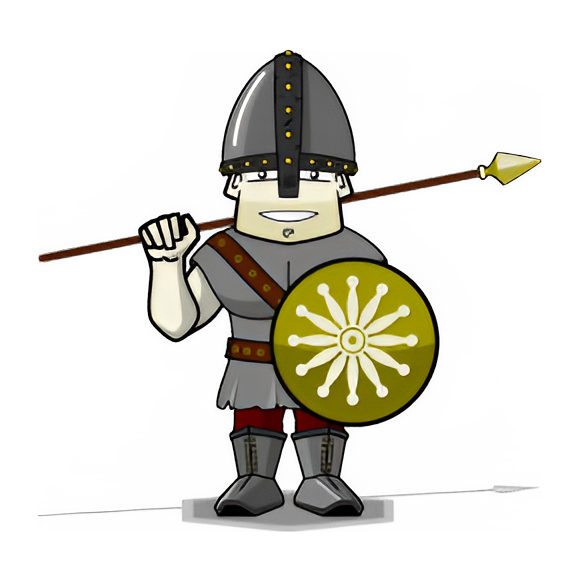
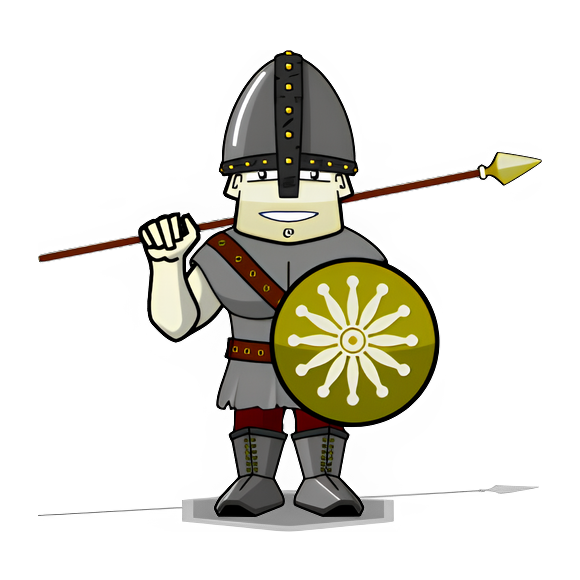
bug: keep the interrupt raised while advancing the loop (#46)
* bug: keep the interrupt raised while advancing the loop

- The helpers of the loop discarded every pending exception, which
  included the keyboard interrupt raised inside the running of it,
  so the serving loop never noticed the signal and never stopped
- Saves the exception of the signal while the shutdown of the
  lifespan runs, the interpreter refuses most calls with one
  pending and the shutdown would otherwise hang the ending

* bug: keep the exception of the signal across the closing

- The closing of the service reaches the interpreter through the
  destruction of the contexts of the connections, which cleared
  the restored exception and left the serving returning without
  one, so the interrupt surfaced as a system error instead
- Keeps a request in flight in the test of the interrupt, so that
  the signal reaches the loop while it is advancing the
  interpreter, the window the previous commit addresses

* test: raise the interrupt through the portable helper

- The kill of a signal other than the control events terminates
  the process on windows, which was ending the run of the suite
  there rather than exercising the interrupt

* chore: improve high-resolution web assets

- Restore legacy artwork with asset-specific upscaling
- Preserve small UI glyphs with pixel-aware 2x scaling
- Keep source-resolution assets unchanged

diff --git a/src/viriatum_python/module/loop.c b/src/viriatum_python/module/loop.c
@@ -78,7 +78,7 @@ ERROR_CODE delete_loop_python(struct loop_python_t *loop_python) {
     of them is ever going to be advanced once the loop is closed */
     if(loop_python->loop != NULL) {
         tasks = PyObject_CallMethod(loop_python->module, "all_tasks", "O", loop_python->loop);
-        if(tasks == NULL) { PyErr_Clear(); }
+        if(tasks == NULL) { _clear_loop_python(); }
         else {
             /* the set of tasks is not a sequence and so it must be
             converted into one before being iterated, both references
@@ -91,7 +91,7 @@ ERROR_CODE delete_loop_python(struct loop_python_t *loop_python) {
             }
             Py_XDECREF(sequence);
             Py_DECREF(tasks);
-            PyErr_Clear();
+            _clear_loop_python();
         }
 
         /* advances the loop until every cancelled task is done, a task
@@ -102,7 +102,7 @@ ERROR_CODE delete_loop_python(struct loop_python_t *loop_python) {
             run_once_loop_python(loop_python);
         }
         Py_XDECREF(PyObject_CallMethod(loop_python->loop, "close", NULL));
-        PyErr_Clear();
+        _clear_loop_python();
         Py_DECREF(loop_python->loop);
         loop_python->loop = NULL;
     }
@@ -130,7 +130,7 @@ ERROR_CODE attach_loop_python(struct loop_python_t *loop_python) {
         "O",
         loop_python->loop
     ));
-    PyErr_Clear();
+    _clear_loop_python();
 
     /* raises no error */
     RAISE_NO_ERROR;
@@ -149,7 +149,7 @@ ERROR_CODE run_slice_loop_python(struct loop_python_t *loop_python, double timeo
     in how they behave around a plain stopping callback */
     sleep = PyObject_CallMethod(loop_python->module, "sleep", "d", timeout);
     if(sleep == NULL) {
-        PyErr_Clear();
+        _clear_loop_python();
         RAISE_ERROR_M(
             RUNTIME_EXCEPTION_ERROR_CODE,
             (unsigned char *) "Problem creating the sleep coroutine"
@@ -158,7 +158,7 @@ ERROR_CODE run_slice_loop_python(struct loop_python_t *loop_python, double timeo
     result = PyObject_CallMethod(loop_python->loop, "run_until_complete", "O", sleep);
     Py_DECREF(sleep);
     if(result == NULL) {
-        PyErr_Clear();
+        _clear_loop_python();
         RAISE_ERROR_M(
             RUNTIME_EXCEPTION_ERROR_CODE,
             (unsigned char *) "Problem running the event loop"
@@ -175,10 +175,10 @@ double time_loop_python(struct loop_python_t *loop_python) {
     the timers scheduled in it are measured against */
     PyObject *result = PyObject_CallMethod(loop_python->loop, "time", NULL);
     double value;
-    if(result == NULL) { PyErr_Clear(); return 0.0; }
+    if(result == NULL) { _clear_loop_python(); return 0.0; }
     value = PyFloat_AsDouble(result);
     Py_DECREF(result);
-    if(PyErr_Occurred()) { PyErr_Clear(); return 0.0; }
+    if(PyErr_Occurred()) { _clear_loop_python(); return 0.0; }
     return value;
 }
 
@@ -192,16 +192,16 @@ ERROR_CODE run_once_loop_python(struct loop_python_t *loop_python) {
     callbacks, this is what makes the run below advance the loop by
     exactly one iteration instead of blocking on its own selector */
     stop = PyObject_GetAttrString(loop_python->loop, "stop");
-    if(stop == NULL) { PyErr_Clear(); RAISE_NO_ERROR; }
+    if(stop == NULL) { _clear_loop_python(); RAISE_NO_ERROR; }
     result = PyObject_CallMethod(loop_python->loop, "call_soon", "O", stop);
     Py_DECREF(stop);
-    if(result == NULL) { PyErr_Clear(); RAISE_NO_ERROR; }
+    if(result == NULL) { _clear_loop_python(); RAISE_NO_ERROR; }
     Py_DECREF(result);
 
     /* runs the loop until the stopping callback above is reached, no
     blocking happens as the ready queue is never empty */
     result = PyObject_CallMethod(loop_python->loop, "run_forever", NULL);
-    if(result == NULL) { PyErr_Clear(); } else { Py_DECREF(result); }
+    if(result == NULL) { _clear_loop_python(); } else { Py_DECREF(result); }
 
     /* raises no error */
     RAISE_NO_ERROR;
@@ -216,10 +216,10 @@ size_t pending_loop_python(struct loop_python_t *loop_python) {
     /* retrieves the complete set of tasks that are still pending in
     the loop, the done ones are never part of the resulting set */
     tasks = PyObject_CallMethod(loop_python->module, "all_tasks", "O", loop_python->loop);
-    if(tasks == NULL) { PyErr_Clear(); return 0; }
+    if(tasks == NULL) { _clear_loop_python(); return 0; }
     count = PyObject_Length(tasks);
     Py_DECREF(tasks);
-    if(count < 0) { PyErr_Clear(); return 0; }
+    if(count < 0) { _clear_loop_python(); return 0; }
 
     /* returns the number of tasks that are still pending */
     return (size_t) count;
@@ -248,7 +248,7 @@ ERROR_CODE resolve_future_loop_python(PyObject *future, PyObject *result) {
     the associated task has been cancelled in the meantime, nothing
     may be set on it (that would raise an invalid state error) */
     done = PyObject_CallMethod(future, "done", NULL);
-    if(done == NULL) { PyErr_Clear(); RAISE_NO_ERROR; }
+    if(done == NULL) { _clear_loop_python(); RAISE_NO_ERROR; }
     is_done = PyObject_IsTrue(done);
     Py_DECREF(done);
     if(is_done != 0) { RAISE_NO_ERROR; }
@@ -256,8 +256,24 @@ ERROR_CODE resolve_future_loop_python(PyObject *future, PyObject *result) {
     /* resolves the future with the provided result, waking up the task
     that is waiting on it on the next iteration of the loop */
     resolved = PyObject_CallMethod(future, "set_result", "O", result);
-    if(resolved == NULL) { PyErr_Clear(); } else { Py_DECREF(resolved); }
+    if(resolved == NULL) { _clear_loop_python(); } else { Py_DECREF(resolved); }
 
     /* raises no error */
     RAISE_NO_ERROR;
+}
+
+void _clear_loop_python(void) {
+    /* in case the pending exception is a keyboard interrupt it is re
+    armed instead of being discarded, the serving loop verifies the
+    signals right after advancing the loop and would otherwise never
+    notice the one that reached the interpreter while it was running */
+    if(PyErr_ExceptionMatches(PyExc_KeyboardInterrupt)) {
+        PyErr_Clear();
+        PyErr_SetInterrupt();
+        return;
+    }
+
+    /* discards the pending exception, the various helpers of the loop
+    report their problems through the error code they return */
+    PyErr_Clear();
 }

diff --git a/src/viriatum_python/test/test_asgi.py b/src/viriatum_python/test/test_asgi.py
@@ -7,8 +7,10 @@ import base64
 import gc
 import hashlib
 import os
+import signal
 import socket
 import struct
+import sys
 import threading
 import time
 import unittest
@@ -1094,6 +1096,68 @@ class AsgiTest(ServerCase):
             "retained %d futures across 30 dropped connections" % retained,
         )
 
+    def test_keyboard_interrupt(self):
+        # verifies that an interrupt stops the serving loop, the
+        # signals are only handled in the main thread and so it is the
+        # one that runs the loop while another raises the interrupt
+        state = {"raised": False, "expired": False}
+        finished = threading.Event()
+
+        async def application(scope, receive, send):
+            # refuses the lifespan scope so that the opening of the
+            # service is immediate, the interrupt has to reach the
+            # serving loop rather than the wait of the protocol
+            if scope["type"] != "http":
+                raise NotImplementedError(scope["type"])
+            await receive()
+            await asyncio.sleep(2.0)
+            await send({"type": "http.response.start", "status": 200, "headers": []})
+            await send({"type": "http.response.body", "body": b"plain"})
+
+        server = viriatum.Server(application, port=self.port + 30, interface="asgi")
+
+        def request():
+            # keeps a request in flight so that a task stays pending
+            # and the loop is advancing the interpreter, which is the
+            # window where the interrupt used to be discarded
+            try:
+                urllib.request.urlopen(
+                    "http://127.0.0.1:%d/" % (self.port + 30), timeout=10
+                )
+            except Exception:
+                pass
+
+        def interrupt():
+            # waits for the service to be listening before raising the
+            # interrupt, so that it never reaches the opening of it
+            for _ in range(200):
+                try:
+                    connection = socket.create_connection(
+                        ("127.0.0.1", self.port + 30), timeout=1
+                    )
+                    connection.close()
+                    break
+                except Exception:
+                    time.sleep(0.05)
+            threading.Thread(target=request, daemon=True).start()
+            time.sleep(0.5)
+            state["raised"] = True
+            signal.raise_signal(signal.SIGINT)
+
+            # stops the server in case the interrupt is ignored, so
+            # that the test fails instead of hanging forever
+            if not finished.wait(timeout=10.0):
+                state["expired"] = True
+                server.stop()
+
+        threading.Thread(target=interrupt, daemon=True).start()
+        try:
+            self.assertRaises(KeyboardInterrupt, server.serve_forever)
+        finally:
+            finished.set()
+        self.assertTrue(state["raised"])
+        self.assertFalse(state["expired"], "the interrupt was ignored")
+
     def test_serve_helper(self):
         # verifies that the helper builds a server with the provided
         # arguments and runs its loop until it is stopped
@@ -1344,6 +1408,52 @@ class LifespanTest(unittest.TestCase):
         finally:
             asyncio.sleep = original
         self.assertEqual(events, [])
+
+    def test_lifespan_shutdown_on_interrupt(self):
+        # verifies that the shutdown of the lifespan is run when the
+        # serving is ended by an interrupt, the exception raised by
+        # the signal has to be saved while it takes place
+        events = []
+        state = {"expired": False}
+        finished = threading.Event()
+
+        async def application(scope, receive, send):
+            if scope["type"] != "lifespan":
+                await self._plain(receive, send)
+                return
+            while True:
+                message = await receive()
+                events.append(message["type"])
+                if message["type"] == "lifespan.startup":
+                    await send({"type": "lifespan.startup.complete"})
+                elif message["type"] == "lifespan.shutdown":
+                    await send({"type": "lifespan.shutdown.complete"})
+                    return
+
+        server = viriatum.Server(application, port=PORT + 9, interface="asgi")
+
+        def interrupt():
+            for _ in range(200):
+                try:
+                    connection = socket.create_connection(
+                        ("127.0.0.1", PORT + 9), timeout=1
+                    )
+                    connection.close()
+                    break
+                except Exception:
+                    time.sleep(0.05)
+            signal.raise_signal(signal.SIGINT)
+            if not finished.wait(timeout=10.0):
+                state["expired"] = True
+                server.stop()
+
+        threading.Thread(target=interrupt, daemon=True).start()
+        try:
+            self.assertRaises(KeyboardInterrupt, server.serve_forever)
+        finally:
+            finished.set()
+        self.assertFalse(state["expired"], "the interrupt was ignored")
+        self.assertEqual(events, ["lifespan.startup", "lifespan.shutdown"])
 
     def test_lifespan_unsupported(self):
         # verifies that an application that refuses the lifespan

diff --git a/src/viriatum_python/test/test_server.py b/src/viriatum_python/test/test_server.py
@@ -2,6 +2,7 @@
 # -*- coding: utf-8 -*-
 
 import ast
+import signal
 import socket
 import sys
 import threading
@@ -522,6 +523,48 @@ class ServerLifecycleTest(unittest.TestCase):
         server.stop()
         thread.join(timeout=10)
         self.assertFalse(thread.is_alive())
+
+    def test_keyboard_interrupt(self):
+        # verifies that an interrupt stops the serving loop, the
+        # signals are only handled in the main thread and so it is the
+        # one that runs the loop while another raises the interrupt
+        state = {"raised": False, "expired": False}
+        finished = threading.Event()
+
+        def application(environ, start_response):
+            start_response("200 OK", [("Content-Type", "text/plain")])
+            return [b"plain"]
+
+        server = viriatum.Server(application, port=PORT + 30, interface="wsgi")
+
+        def interrupt():
+            # waits for the service to be listening before raising the
+            # interrupt, so that it never reaches the opening of it
+            for _ in range(200):
+                try:
+                    connection = socket.create_connection(
+                        ("127.0.0.1", PORT + 30), timeout=1
+                    )
+                    connection.close()
+                    break
+                except Exception:
+                    time.sleep(0.05)
+            state["raised"] = True
+            signal.raise_signal(signal.SIGINT)
+
+            # stops the server in case the interrupt is ignored, so
+            # that the test fails instead of hanging forever
+            if not finished.wait(timeout=10.0):
+                state["expired"] = True
+                server.stop()
+
+        threading.Thread(target=interrupt, daemon=True).start()
+        try:
+            self.assertRaises(KeyboardInterrupt, server.serve_forever)
+        finally:
+            finished.set()
+        self.assertTrue(state["raised"])
+        self.assertFalse(state["expired"], "the interrupt was ignored")
 
     def test_serve_helper(self):
         # verifies that the serve helper is exposed and callable

diff --git a/src/viriatum_python/module/server.c b/src/viriatum_python/module/server.c
@@ -339,6 +339,12 @@ static void _dealloc_server_python(PyObject *self) {
 }
 
 static PyObject *_serve_forever_server_python(PyObject *self, PyObject *args) {
+    /* allocates space for the exception raised by a signal, it must
+    be saved while the shutdown of the lifespan is running */
+    PyObject *type;
+    PyObject *value;
+    PyObject *traceback;
+
     /* retrieves the reference to the server object and the service
     that is going to be driven by the current loop */
     struct server_python_t *server_python = (struct server_python_t *) self;
@@ -400,8 +406,17 @@ static PyObject *_serve_forever_server_python(PyObject *self, PyObject *args) {
         is what makes the keyboard interrupt work as expected */
         if(PyErr_CheckSignals() != 0) {
             stop_service(service);
+
+            /* saves the exception raised by the signal so that both
+            the shutdown of the lifespan and the closing of the
+            service run over a clean error state, the interpreter
+            refuses most of the calls while one is pending and the
+            closing of the connections reaches it through the
+            destruction of their contexts */
+            PyErr_Fetch(&type, &value, &traceback);
             if(server_python->loop_python != NULL) { shutdown_handler_asgi(service); }
             close_service(service);
+            PyErr_Restore(type, value, traceback);
             server_python->opened = FALSE;
             return NULL;
         }

diff --git a/src/viriatum_python/module/loop.h b/src/viriatum_python/module/loop.h
@@ -67,3 +67,4 @@ size_t pending_loop_python(struct loop_python_t *loop_python);
 PyObject *create_task_loop_python(struct loop_python_t *loop_python, PyObject *coroutine);
 PyObject *create_future_loop_python(struct loop_python_t *loop_python);
 ERROR_CODE resolve_future_loop_python(PyObject *future, PyObject *result);
+void _clear_loop_python(void);

diff --git a/CHANGELOG.md b/CHANGELOG.md
@@ -13,11 +13,12 @@ and this project adheres to [Semantic Versioning](https://semver.org/spec/v2.0.0
 
 ### Changed
 
+* Improved the rendering of the legacy 2x Steamfire logo
 * Web pages now select 2x image assets on high-density displays
 
 ### Fixed
 
-*
+* Keyboard interrupt now stops a server that is running an ASGI application
 
 ## [0.4.0] - 2026-08-28
 
